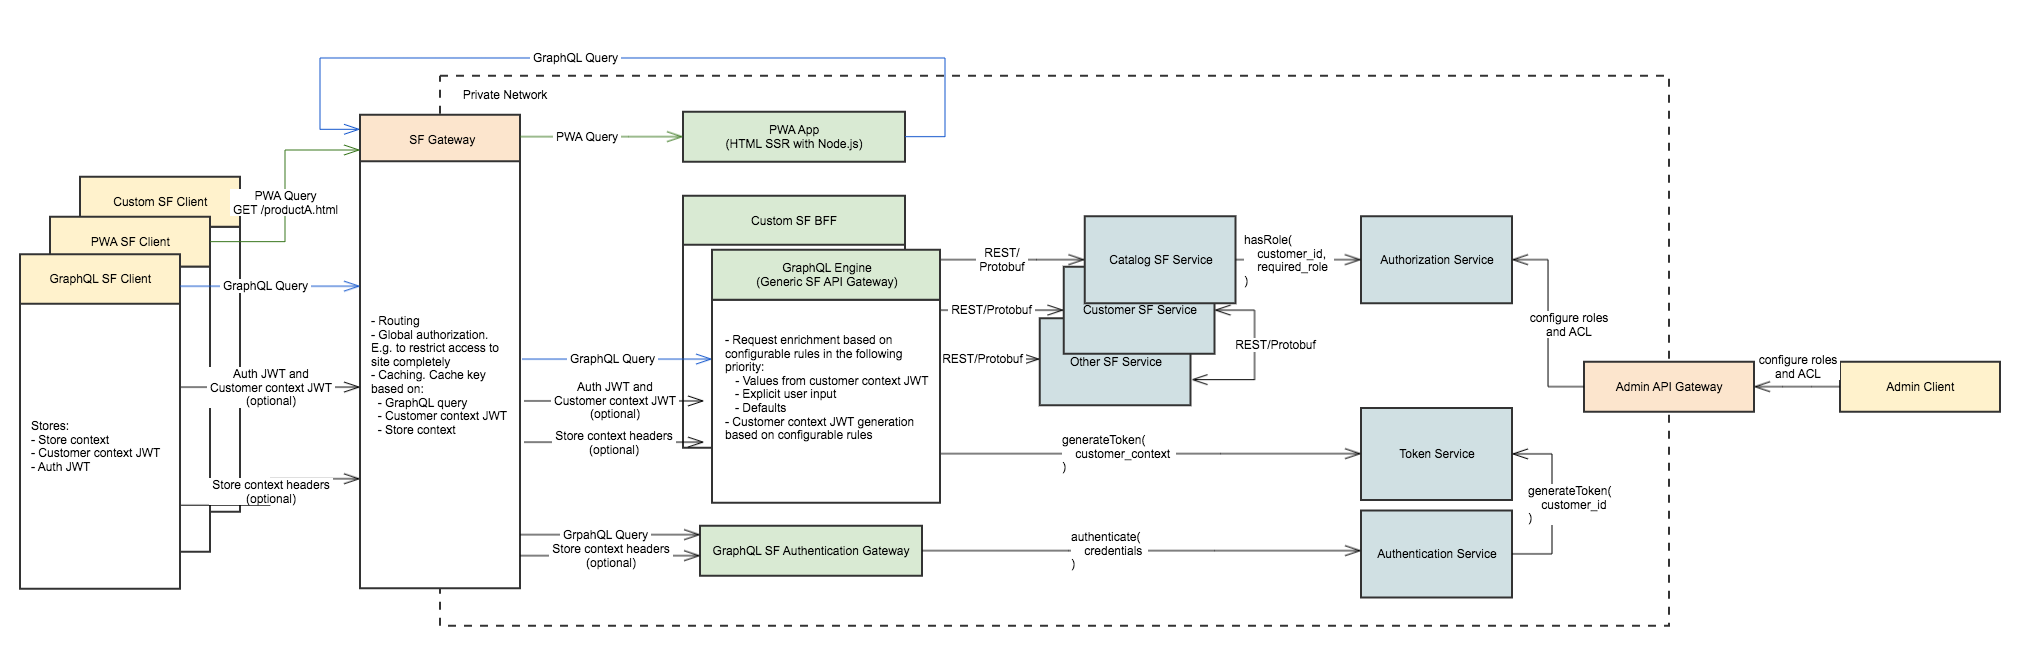
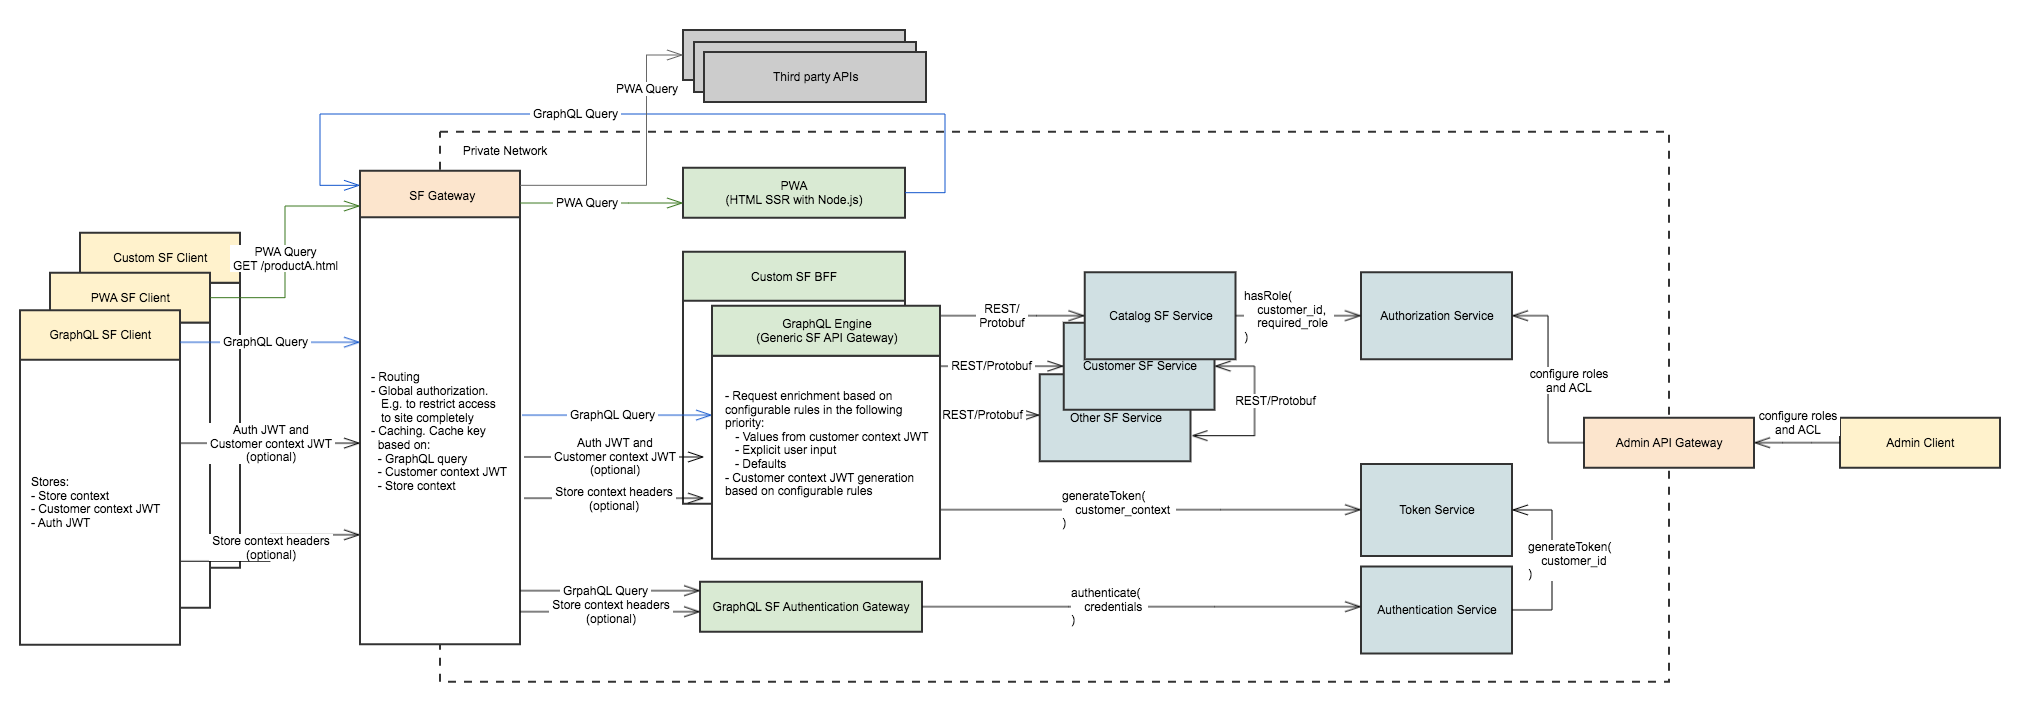
Multi-service architecture details

diff --git a/design-documents/service-isolation/detailed-architecture.md b/design-documents/service-isolation/detailed-architecture.md
@@ -1,7 +1,5 @@
 # Detailed architecture of multi-service Magento
 
-:warning: This document is under discussion and is incomplete.
-
 ## Overview
 
 The goal of this document is to gather requirements, understand data flow and propose architecture for multi-service Magento application.
@@ -15,6 +13,12 @@ The client (e.g. browser) is interacting with the system using GraphQL. The only
 Storefront Gateway routes incoming queries between PWA, GraphQL Engine and Storefront Authentication Gateway.
 
 PWA's main responsibility is to [render React application on the server-side](../frontend/server-side-rendering.md). Resulting HTML page with React application becomes cacheable on the server.
+
+GraphQL server parses GraphQL query, enriches the request (explained later) and proxies calls to the Storefront services. It also manages Customer context JWT. GraphQL schema is defined here and is extensible, query resolution is based on generic resolvers and configuration for field mapping to Storefront APIs.
+
+Storefront services are responsible for authorizing requests based on the Auth JWT and the list of required permissions. Actual ACL check is delegated to the the Authorization service.
+
+GraphQL authentication gateway is an independent service for improved security purposes, although it can be merged with GraphQL server.
 
 The storefront services are communicating with each other using REST or Protobuf protocol. Storefront APIs are implemented as service contracts exposed via REST/Protobuf.
 
